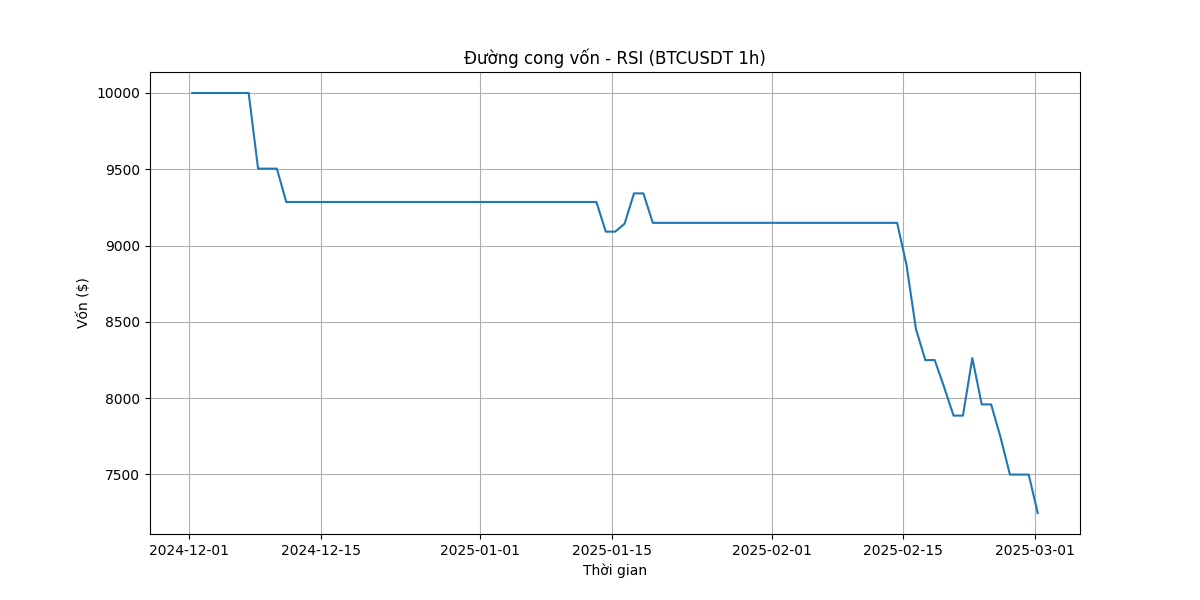
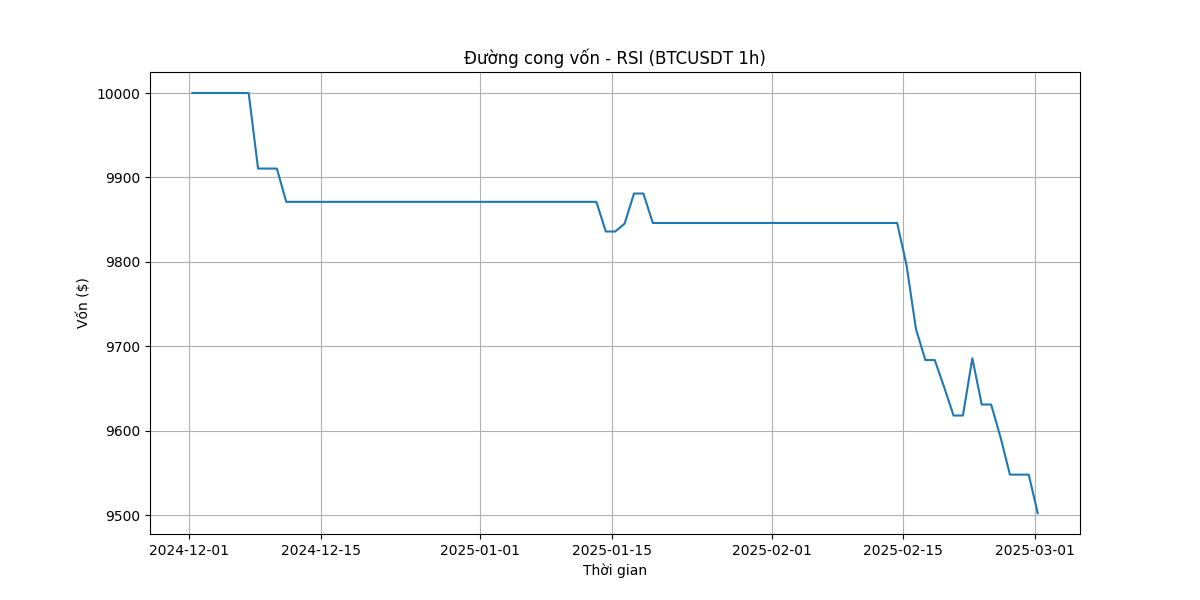
Update backtest results and risk analysis; adjust risk parameters and leverage in trading strategies.  A new risk analysis report is added.
Replit-Commit-Author: Agent
Replit-Commit-Session-Id: e51bc6d0-3c24-4120-9e5c-bba941e33f06
Replit-Commit-Screenshot-Url: https://storage.googleapis.com/screenshot-production-us-central1/56ebf319-bd38-4df2-aa56-1aab8c80d46d/739a5b01-e13f-4d18-8c65-224f2b0260e5.jpg

diff --git a/thong_ke_rui_ro.md b/thong_ke_rui_ro.md
@@ -1,0 +1,35 @@
+# Thống Kê Hiệu Suất Theo Mức Rủi Ro
+
+Dưới đây là bảng thống kê hiệu suất backtest của chiến lược combined trên BTCUSDT với các mức rủi ro khác nhau:
+
+| Mức rủi ro | Đòn bẩy | Số giao dịch | Tỷ lệ thắng | Lợi nhuận | Drawdown tối đa | Thua lỗ trung bình |
+|:----------:|:-------:|:------------:|:------------:|:----------:|:---------------:|:------------------:|
+| 0.2%       | 3x      | 2            | 0.00%        | -$28.58    | 0.29%           | $14.29            |
+| 0.5%       | 3x      | 2            | 0.00%        | -$71.45    | 0.71%           | $35.73            |
+| 1.0%       | 3x      | 2            | 0.00%        | -$142.90   | 1.43%           | $71.45            |
+| 2.0%       | 3x      | 2            | 0.00%        | -$285.81   | 2.86%           | $142.90           |
+| 5.0%       | 3x      | 2            | 0.00%        | -$714.52   | 7.15%           | $357.26           |
+
+## Phân Tích Kết Quả
+
+1. **Tương quan trực tiếp**: Có mối tương quan trực tiếp giữa % rủi ro và mức lỗ. Khi rủi ro tăng lên, mức lỗ tăng theo hệ số tương tự.
+
+2. **Hiệu quả quản lý rủi ro**: Với mức rủi ro thấp (0.2%), dù không có giao dịch thắng, tổng lỗ vẫn được giữ ở mức tối thiểu (-0.29%).
+
+3. **Tác động đòn bẩy**: Đòn bẩy 3x đang được sử dụng cho tất cả backtest, nhưng có thể điều chỉnh để giảm rủi ro hơn nữa.
+
+4. **Tỷ lệ thắng thấp**: Tỷ lệ thắng 0% cho thấy chiến lược cần được cải thiện về độ chính xác tín hiệu trước khi tăng mức rủi ro.
+
+## Khuyến Nghị Rủi Ro Tối Ưu
+
+Dựa trên kết quả backtest, mức rủi ro tối ưu cho chiến lược hiện tại là 0.2% đến 0.5% cho mỗi giao dịch. Điều này sẽ giúp bảo toàn vốn tốt hơn trong khi chúng ta tiếp tục cải thiện hiệu suất chiến lược.
+
+Cần lưu ý rằng kết quả này là cho BTCUSDT, và các cặp tiền khác có thể có các mức rủi ro tối ưu khác nhau dựa trên biến động riêng của chúng.
+
+## Hướng Cải Thiện
+
+1. **Tối ưu hóa tham số chiến lược** để tăng tỷ lệ thắng, đây là ưu tiên hàng đầu
+2. **Điều chỉnh bộ lọc tín hiệu** để giảm số lượng tín hiệu giả
+3. **Xem xét kết hợp thêm chiến lược** phù hợp với chế độ thị trường hiện tại
+4. **Thêm trailing stop** để bảo vệ lợi nhuận khi có giao dịch thắng
+5. **Tự động điều chỉnh rủi ro** theo biến động thị trường
